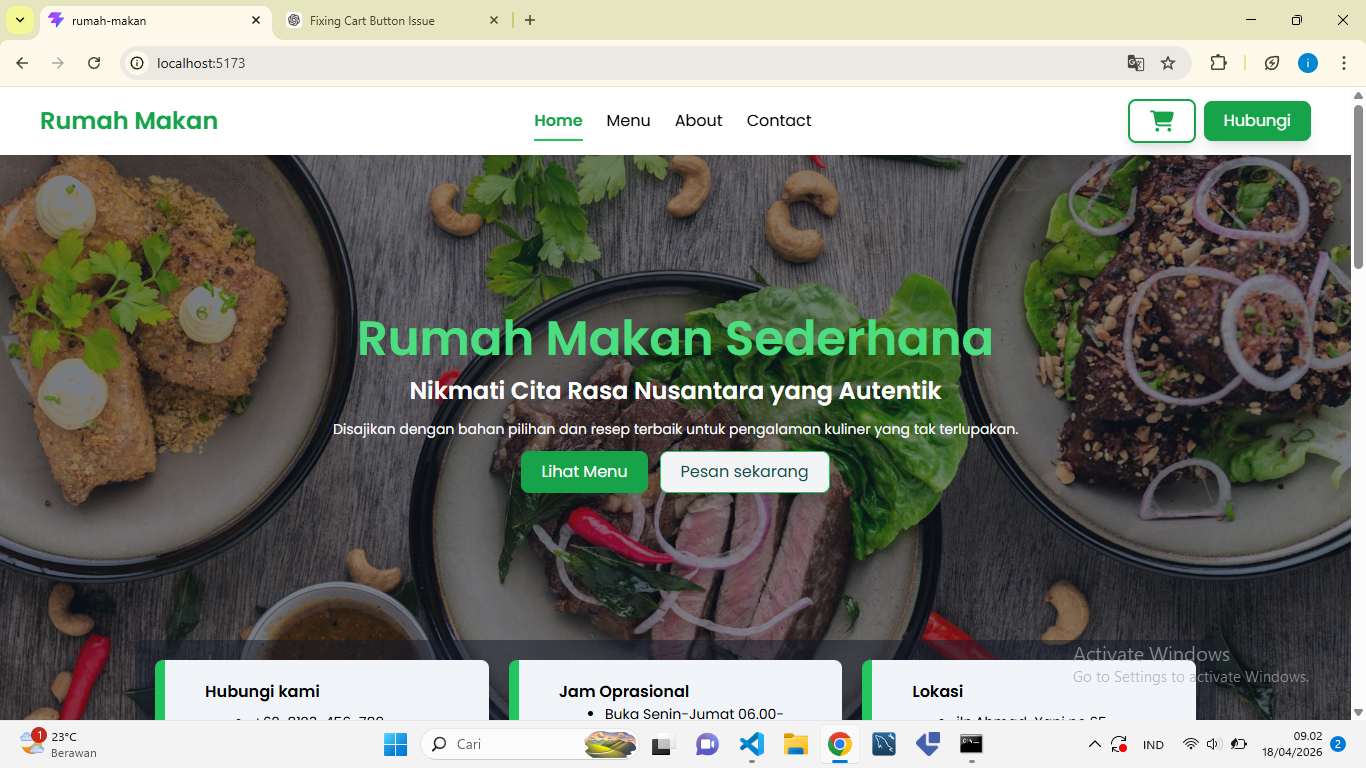
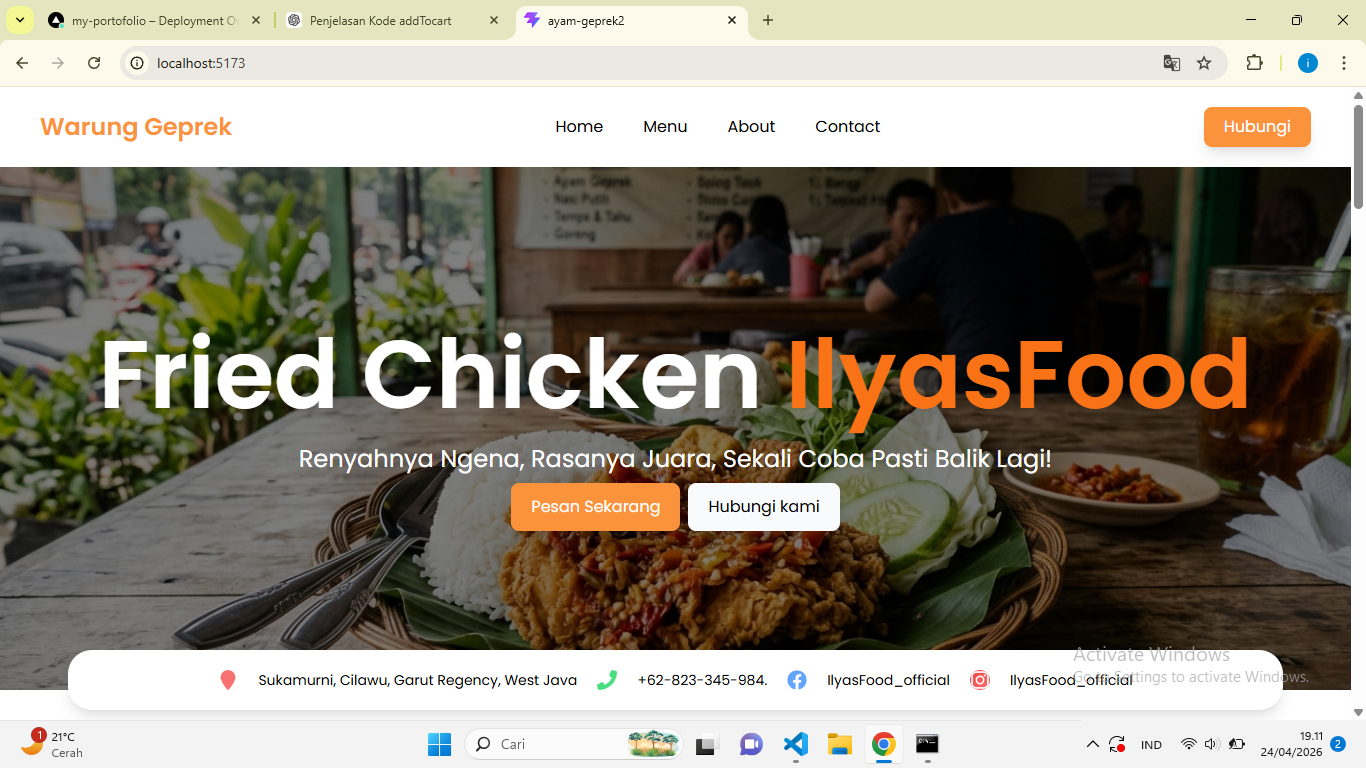
''

diff --git a/src/pages/Project.jsx b/src/pages/Project.jsx
@@ -15,7 +15,7 @@ export default function Project() {
     },
     {
       id: 2,
-      name: "MSME Business",
+      name: "Landing page",
       img: imgProject3,
       ket: " Lorem, ipsum dolor sit amet consectetur adipisicing elit. Qui enim illudelectus",
       tech: ["react", "tailwind.css", "framer-motion"],

diff --git a/src/components/scene.css b/src/components/scene.css
@@ -3,8 +3,8 @@
 }
 .floor{
 background-image: 
-linear-gradient(gray 1px, transparent 1px),
-linear-gradient(90deg,gray 1px, transparent 1px)
+linear-gradient(teal 1px, transparent 1px),
+linear-gradient(90deg,teal 1px, transparent 1px)
 ;
 background-size: 40px 40px;
 width: 80%;
